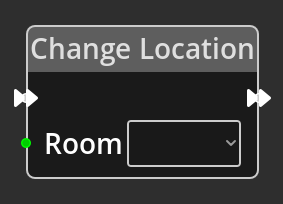
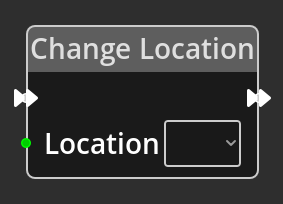
Update docs with more node documentation.
* Add placeholder empty docs for the interface panels.

Changed region(s): [[0.1696, 0.5882, 0.5936, 0.8235]]

diff --git a/docs/logic/nodes/controller.md b/docs/logic/nodes/controller.md
@@ -1,4 +1,91 @@
 
 # Controller
 
-![Controller Node](../../assets/nodes/controllerinput_node.png){align=left}
+
+## Description
+
+![Controller Node](../../assets/nodes/controllerinput_node.png){align=left} The
+*Controller Node* reports on the status of the configured controller for left,
+right, up, down and jump/fire. This node will adapt to whatever has been
+configured for the input method in your game, joystick, keyboard etc. The node
+allows you to define which values to return when each input is activated,
+defaulting to 1 for each, so that you can define the appropriate values for
+your needs. For example, it might be common to use -1 for left and 1 for right,
+to be used directly later in the graph as directions on the X axis to avoid
+having to convert the input to a direction manually.
+
+The controller reports the status in one of four modes, *Pressed*, *Released*,
+*Just Pressed* and *Just Released*. The *Pressed* and *Released* modes will
+report continuously while the input is in the appropriate state, either pressed
+or not pressed. The *Just Pressed* and *Just Released* will report only for the
+frame after the input changes to the appropriate state, pressed or released.
+For example, *Just Pressed* will report only once when the player presses the
+key or joystick control, commonly used for fire actions, it will not report
+again until the player releases that input and then activates it again.
+
+<br style="clear:left"/>
+  
+-------
+
+## Ports
+
+### Left 
+
+An integer output port that will report the result of checking the state of the
+left controller input based on the mode.
+
+### Right 
+
+An integer output port that will report the result of checking the state of the
+right controller input based on the mode.
+
+### Up 
+
+An integer output port that will report the result of checking the state of the
+up controller input based on the mode.
+
+### Down 
+
+An integer output port that will report the result of checking the state of the
+down controller input based on the mode.
+
+### Jump/Fire 
+
+An integer output port that will report the result of checking the state of the
+jump/fire controller input based on the mode.
+
+
+-------
+
+## Parameters
+
+### Left 
+
+A constant integer value that will be output on the __Left__ port if the input
+check matches the mode for the left input.
+
+### Right 
+
+A constant integer value that will be output on the __Right__ port if the input
+check matches the mode for the right input.
+
+### Up 
+
+A constant integer value that will be output on the __Up__ port if the input
+check matches the mode for the up input.
+
+### Down 
+
+A constant integer value that will be output on the __Down__ port if the input
+check matches the mode for the down input.
+
+### Jump/Fire 
+
+A constant integer value that will be output on the __Jump/Fire__ port if the
+input check matches the mode for the jump/fire input.
+
+### Mode
+
+Define the mode of operation between *Pressed*, *Released*, *Just Pressed* and
+*Just Released*. See the description of the node operation for an explanation
+of the difference between the modes.

diff --git a/docs/logic/nodes/clamp.md b/docs/logic/nodes/clamp.md
@@ -1,4 +1,54 @@
 
 # Clamp
 
-![Clamp Node](../../assets/nodes/clamp_node.png){align=left}
+
+## Description
+
+![Clamp Node](../../assets/nodes/clamp_node.png){align=left} The *Clamp Node*
+takes an integer value on the __In__ port, if the value is less than or equal
+to the __Min__ port/parameter the __Min__ port/parameter value is output, if it
+is greater than or equal to the __Max__ port/parameter the __Max__
+port/parameter value is output, otherwise the value is output unmodified. 
+
+<br style="clear:left"/>
+  
+-------
+
+## Ports
+
+### In 
+
+An integer input port used to provide the input value for testing. This must be
+connected for the node to operate correctly.
+
+### Out
+
+An integer output port, the result of the comparison detailed in the
+description is output on this port.
+
+### Min
+
+An integer input port, using this allows you to specify the minimum value from
+elsewhere in the logic graph, such as via an [Integer
+Constant](integer_constant.md) node.
+
+### Max
+
+An integer input port, using this allows you to specify the maximum value from
+elsewhere in the logic graph, such as via an [Integer
+Constant](integer_constant.md) node.
+
+
+-------
+
+## Parameters
+
+### Min 
+
+A constant integer value for the minimum, used when the __Min__ port is not
+connected.
+
+### Max 
+
+A constant integer value for the maximum, used when the __Max__ port is not
+connected.

diff --git a/docs/logic/nodes/beep_fx.md b/docs/logic/nodes/beep_fx.md
@@ -6,10 +6,13 @@
 
 ![Beep FX Node](../../assets/nodes/beepfx_node.png){align=left} The *Beep FX
 Node* is used to play a beeper sound effect defined in the Beep FX panel of the
-[Sound Editor](/interface/sound_editor.md). 
+[Sound Editor](../../interface/sound_editor.md). 
 
+<br style="clear:left"/>
 
-## Ports {: style="clear:left" }
+-------
+
+## Ports
 
 ### Flow In
 
@@ -26,15 +29,17 @@ following the completion of this node's operation.
 ### FX
 
 An integer input port used to provide the index of the Beep FX sound effect in
-the list as defined by the [Sound Editor](/interface/sound_editor.md).
+the list as defined by the [Sound Editor](../../interface/sound_editor.md).
 
+
+-------
 
 ## Parameters
 
 ### FX 
 
 A dropdown selection of existing sound effects from the Beep FX tab of the
-[Sound Editor](/interface/sound_editor.md). Use this if you wish to trigger a
-specific sound effect, use the port connected to the same location in the node
-if you wish to trigger a sound effect based on some calculations elsewhere in
-the logic graph.
+[Sound Editor](../../interface/sound_editor.md). Use this if you wish to
+trigger a specific sound effect, use the port at the same level in the node if
+you wish to trigger a sound effect based on some calculations elsewhere in the
+logic graph.

diff --git a/docs/logic/nodes/change_location.md b/docs/logic/nodes/change_location.md
@@ -1,4 +1,44 @@
 
 # Change Location
 
-![Change Location Node](../../assets/nodes/changeroom_node.png){align=left}
+## Description
+
+![Change Location Node](../../assets/nodes/changeroom_node.png){align=left} The
+*Change Location Node* is used to switch to another location on the
+[Map](../../introduction/terminology.md#map). 
+
+<br style="clear:left"/>
+
+-------
+
+## Ports
+
+### Flow In
+
+In order for this node to perform its operation, it must be connected into an
+active flow using this input port. The flow will ultimately originate at a
+__Trigger__ node but can come from the __Flow Out__ port of any other flow
+node.
+
+### Flow Out
+
+A node connected to the __Flow Out__ port will be executed in sequence
+following the completion of this node's operation.
+
+
+### Location
+
+An integer input port used to provide the index of the map location as defined
+in the [Map Editor](../../interface/map_editor.md).
+
+
+-------
+
+## Parameters
+
+### Location 
+
+A dropdown selection of existing location indices from the [Map
+Editor](../../interface/map_editor.md). Use this if you wish to change to a
+specific location, use the port at the same level in the node if you wish to
+use a location based on some calculations elsewhere in the logic graph.

diff --git a/docs/logic/nodes/anim_event.md b/docs/logic/nodes/anim_event.md
@@ -5,14 +5,17 @@
 The *Animation Event Node* is a specific type of *Node* called a __Trigger__. A
 trigger *Node* is an entrypoint into a flow in the Kwyll logic. The *Animation
 Event* trigger is connected to the timeline animation feature in the [Rooms
-Editor](rooms_editor.md). It will run the flow that follows on from it's __Flow
-Out__ port when a the current timeline animation for this object hits a
-keyframe that has the *Trigger Event* checkbox selected. The __Frame__ and
-__T__ output ports provide the frame number of the keyframe in the timeline,
-and the *T* value specified in the editor respectively.
+Editor](../../interface/rooms_editor.md). It will run the flow that follows on
+from it's __Flow Out__ port when a the current timeline animation for this
+object hits a keyframe that has the *Trigger Event* checkbox selected. The
+__Frame__ and __T__ output ports provide the frame number of the keyframe in
+the timeline, and the *T* value specified in the editor respectively.
 
+<br style="clear:left"/>
 
-## Ports {: style="clear:left" }
+-------
+
+## Ports
 
 ### Flow Out
 

diff --git a/docs/logic/nodes/comment.md b/docs/logic/nodes/comment.md
@@ -1,4 +1,20 @@
 
 # Comment
 
-![Comment Node](../../assets/nodes/comment_node.png){align=left}
+
+## Description
+
+![Comment Node](../../assets/nodes/comment_node.png){align=left} The *Comment
+Node* is a non-operational node, it doesn't connect to any flow or have any
+input or output ports or parameters. It has a single multi-line text field that
+you can enter any text into. The text will be saved with the game data, but
+typically has no bearing on the exported data. This node is usually used to
+provide some useful information in more complex logic graphs, a description of
+the operation of a certain part of the graph, or instructions on how to use a
+subgraph etc.
+
+It is resizable and will retain its size, allowing you to place it and size it
+to your requirements.
+
+<br style="clear:left"/>
+  

diff --git a/docs/logic/nodes/always.md b/docs/logic/nodes/always.md
@@ -8,14 +8,21 @@ entrypoint into a flow in the Kwyll logic. The *Always* trigger is the most
 commonly used trigger node, it will run the flow that follows on from it's
 __Flow Out__ port every frame of the game.  
 
+<br style="clear:left"/>
 
-## Ports {: style="clear:left" }
+-------
+
+## Ports
 
 ### Flow Out
 
 As with all trigger nodes, an *Always Node* has only a single flow port
 on the output side. There is no input flow to a trigger node as it is
 the origin of a flow.
+
+
+
+-------
 
 ## Parameters
 

diff --git a/docs/logic/nodes/and.md b/docs/logic/nodes/and.md
@@ -10,7 +10,12 @@ This is useful to combine checks, in particular with the [Integer
 Compare](integer_compare.md) nodes.
 
 
-## Ports {: style="clear:left" }
+<br style="clear:left"/>
+
+
+-------
+
+## Ports
 
 ### A and B
 
